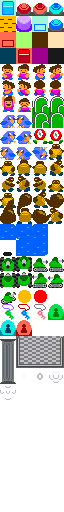
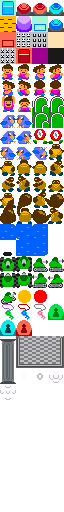
Animate spikes

Changed region(s): [[0.25, 0.0625, 0.75, 0.0938], [0.0, 0.0938, 0.25, 0.125]]

diff --git a/src/enemy.js b/src/enemy.js
@@ -49,7 +49,10 @@ var Spikes = function(game, x, y) {
   Phaser.Sprite.call(this, game, x + 8, y + 8, 'blocks', 10);
   this.game.physics.arcade.enable(this);
   this.body.setSize(16, 16);
-  this.anchor.set(0.5)
+  this.anchor.set(0.5);
+
+  this.animations.add('do', [10, 9, 12, 9], 10, true);
+  this.animations.play('do');
 
   this.invincible = true;
 };
